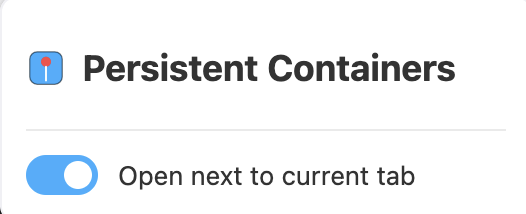
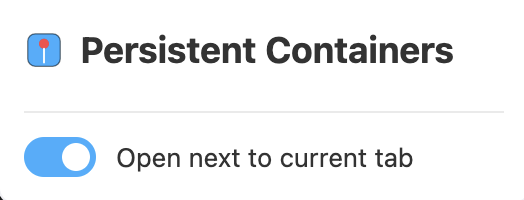
Adding listeners and updated logic

diff --git a/background.js b/background.js
@@ -59,16 +59,6 @@ browser.storage.onChanged.addListener((changes, area) => {
   }
 });
 
-// Capture the current active tab synchronously
-browser.tabs.onActivated.addListener(async ({ tabId, windowId }) => {
-  try {
-    const tab = await browser.tabs.get(tabId);
-    lastActiveTab.set(windowId, tab);
-  } catch {
-    // tab was closed before we could read it
-  }
-});
-
 // Seed lastActiveTab for all windows on startup
 browser.windows.getAll({ populate: true }).then((windows) => {
   for (const win of windows) {
@@ -79,6 +69,30 @@ browser.windows.getAll({ populate: true }).then((windows) => {
   }
 });
 
+// fetch fresh tabs, check URL, call performSwap
+async function resolveBlankTab(tabId, data) {
+  pendingBlankTabs.delete(tabId);
+
+  const freshActiveTab = await browser.tabs
+    .get(data.activeTabId)
+    .catch(() => null);
+  if (!freshActiveTab) {
+    return;
+  }
+  const freshTab = await browser.tabs.get(tabId).catch(() => null);
+  if (!freshTab) {
+    return;
+  }
+  const url =
+    freshTab.url &&
+    freshTab.url !== "about:blank" &&
+    freshTab.url !== "about:newtab" &&
+    freshTab.url !== ""
+      ? freshTab.url
+      : undefined;
+  await performSwap(freshTab, data.targetContainerId, freshActiveTab, url);
+}
+
 // --- Helper Function: Perform the Tab Swap ---
 async function performSwap(
   originalTab,
@@ -86,6 +100,16 @@ async function performSwap(
   currentActiveTab,
   finalUrl,
 ) {
+  // check if container id still valid and exists
+  try {
+    await browser.contextualIdentities.get(targetContainerId);
+  } catch {
+    console.warn(
+      `Persistent Containers: Container ${targetContainerId} no longer exists. Skipping swap.`,
+    );
+    return;
+  }
+
   try {
     // Defer to Multi-Account Containers if it has an explicit assignment
     const macAssignment = await getMACAssignment(finalUrl);
@@ -296,22 +320,37 @@ browser.tabs.onUpdated.addListener(
         changeInfo.url,
       );
     }
-    // EVENT B: The browser declares the tab is 100% finished loading, but it's still blank
+    // EVENT B: Tab finished loading but still blank
     else if (changeInfo.status === "complete") {
-      pendingBlankTabs.delete(tabId); // Stop tracking
-      const freshActiveTab = await browser.tabs
-        .get(data.activeTabId)
-        .catch(() => null);
-      if (!freshActiveTab) {
+      const elapsed = Date.now() - data.timestamp;
+      if (elapsed < 300) {
+        setTimeout(() => {
+          if (!pendingBlankTabs.has(tabId)) {
+            return;
+          }
+          resolveBlankTab(tabId, data);
+        }, 300 - elapsed);
         return;
       }
-
-      await performSwap(tab, data.targetContainerId, freshActiveTab, undefined);
+      resolveBlankTab(tabId, data);
     }
   },
   // only fire for these changes
   { properties: ["url", "status"] },
 );
+
+// --- Update active tab cache on tab switch ---
+browser.tabs.onActivated.addListener(async ({ tabId, windowId }) => {
+  try {
+    const tab = await browser.tabs.get(tabId);
+    // Don't update cache if this is a pending blank tab about to be swapped
+    if (!pendingBlankTabs.has(tabId)) {
+      lastActiveTab.set(windowId, tab);
+    }
+  } catch {
+    // tab was closed
+  }
+});
 
 // Periodic cleanup of pendingBlankTabs (every 30s)
 setInterval(() => {

diff --git a/popup.html b/popup.html
@@ -17,9 +17,9 @@
         display: flex;
         align-items: center;
         gap: 8px;
-        margin-bottom: 12px;
+        margin-bottom: 10px;
         border-bottom: 1px solid #eaeaea;
-        padding-bottom: 8px;
+        padding-bottom: 6px;
         font-weight: 600;
         font-size: 9px;
       }
@@ -28,6 +28,7 @@
         display: flex;
         align-items: center;
         gap: 10px;
+        padding: 8px;
       }
 
       .label-text {
